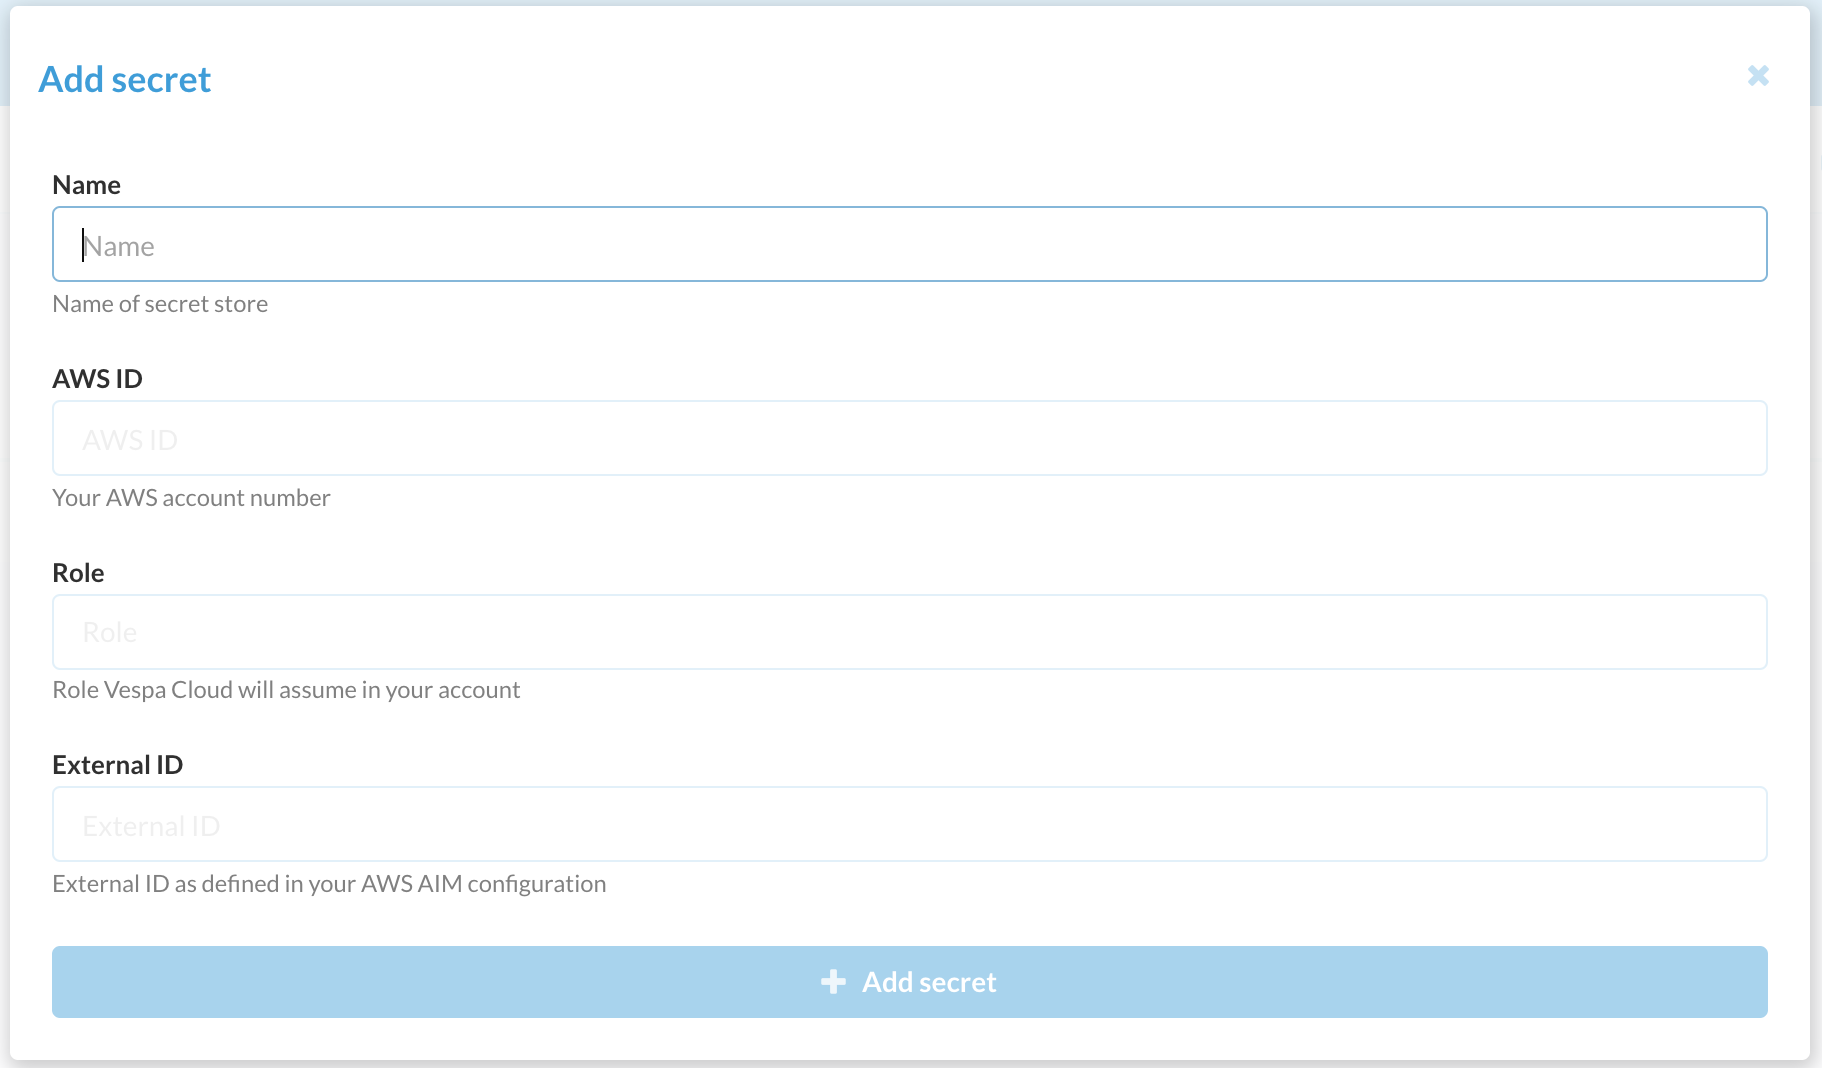
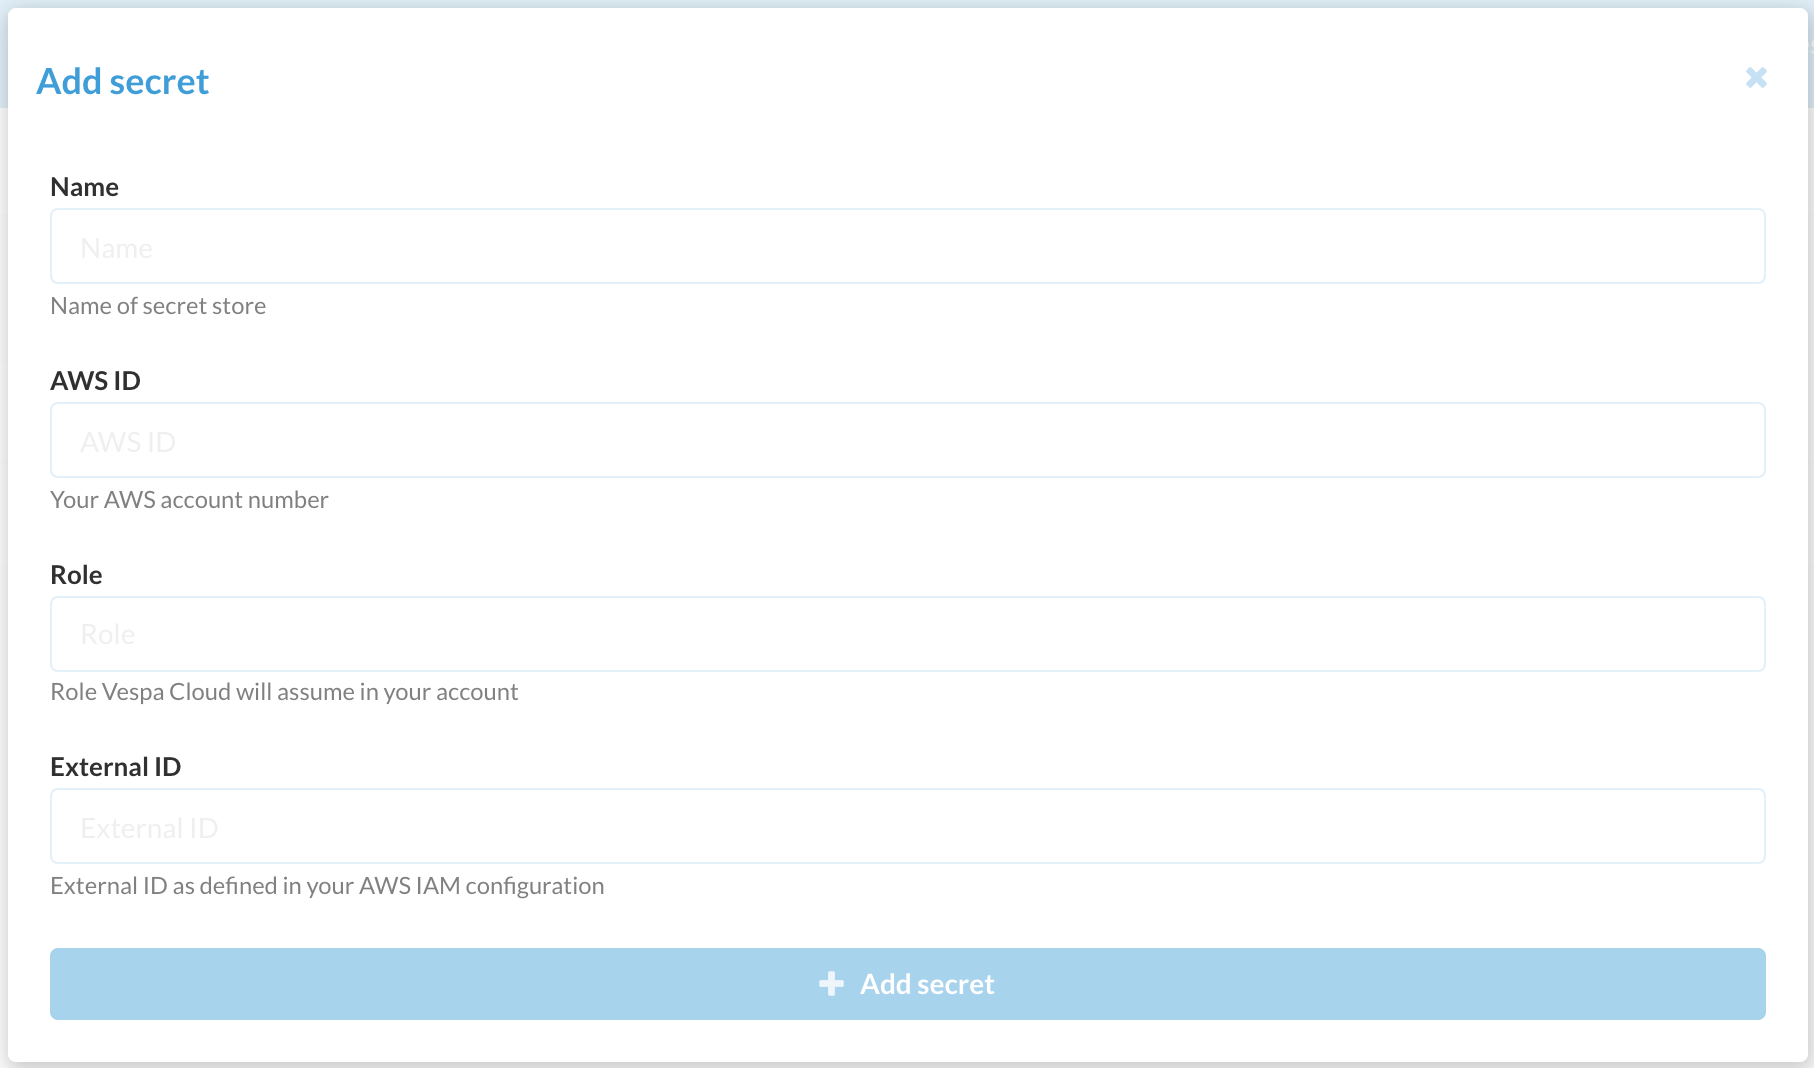
Update draft after first comments
* Vespa Cloud IAM Role use
* Fix typo in add secret store screen shot

diff --git a/en/secret-store.html b/en/secret-store.html
@@ -68,7 +68,7 @@ $ aws iam create-role --role-name vespa-cloud-secret-store-acccess \
     {
       "Effect": "Allow",
       "Principal": {
-        "AWS": "<b>Vespa Cloud Secret Store Role goes in here</b>"
+        "AWS": "<b>Vespa Cloud IAM Role goes in here</b>"
       },
       "Action": "sts:AssumeRole",
       "Condition": {
@@ -99,7 +99,7 @@ $ aws iam attach-role-policy --role-name vespa-cloud-secret-store-acccess \
     <p><b>(Optional) Grant access to Parameter Store encryption key</b></p>
     <p>
       If you follow AWS guidelines your parameters are encrypted using a key in KMS.  For Vespa Cloud to be able to retrieve your
-      parameters you must also grant access to the KMS key used to encrypt the parameters.  ADd a policy like the one below as an
+      parameters you must also grant access to the KMS key used to encrypt the parameters.  Add a policy like the one below as an
       inline policy on the role.
     </p>
 <pre>
